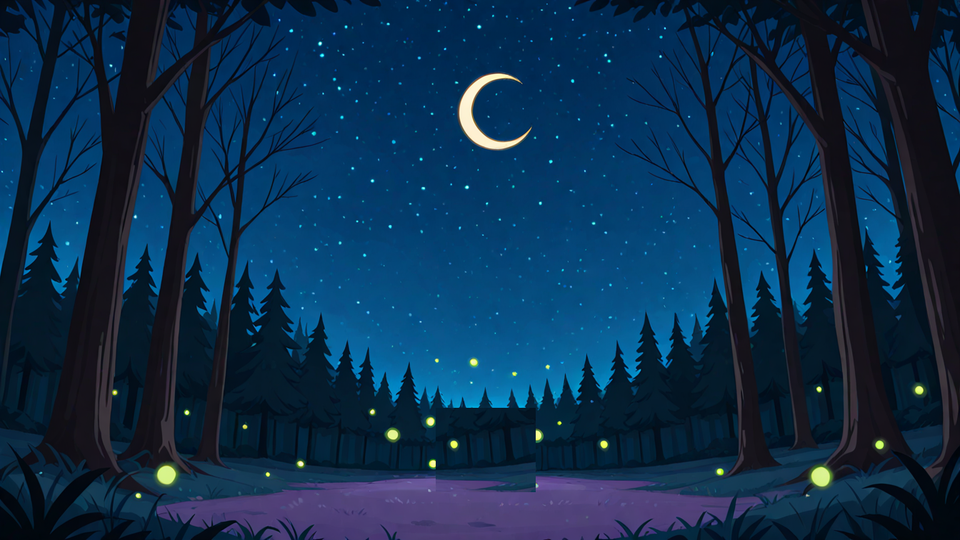
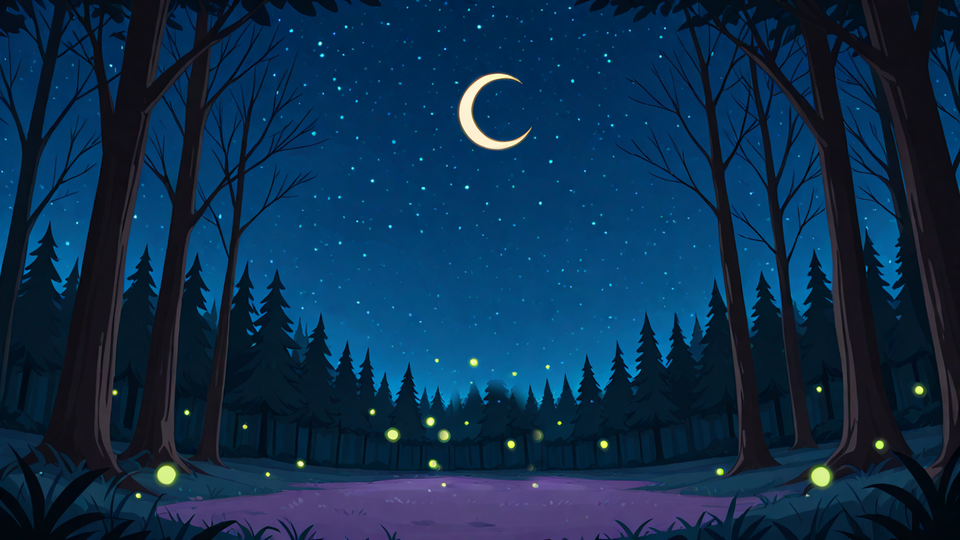
美術:背景補丁改成羽化、素材清單改成實際尺寸
- 失眠森林背景:模型自己加的小動物改用羽化橢圓補丁蓋掉,看不出方塊痕跡
- 練習靶放進 40×40 畫布;去背裁切改看 alpha 通道
- level1-assets.md 改成實際寬×高,補對齊說明;授權表格修正斷行;風格指南更新 LoRA 強度

Changed region(s): [[0.4375, 0.6815, 0.5625, 0.9185]]

diff --git a/docs/art/tools/process_level1.py b/docs/art/tools/process_level1.py
@@ -1,9 +1,10 @@
 """把 ComfyUI 產生的第一關候選圖，去背、翻轉、縮成遊戲大小，輸出到 public/assets/。
 
-用法：python -I docs/art/tools/process_level1.py <ComfyUI output/gk1 資料夾> <專案根目錄>
+用法：C:/ai-studio/ComfyUI_windows_portable/python_embeded/python.exe -I docs/art/tools/process_level1.py <ComfyUI output/gk1 資料夾> <專案根目錄>
+注意：來源圖（ComfyUI 輸出）只在美術的電腦上，沒有放進 repo。
 """
 import os, sys
-from PIL import Image, ImageDraw
+from PIL import Image, ImageDraw, ImageFilter
 
 SRC, ROOT = sys.argv[1], sys.argv[2]
 
@@ -40,23 +41,31 @@ def cutout(path):
         for x in range(w):
             if px[x, y][:3] == key:
                 px[x, y] = (255, 255, 255, 0)
-    return rgba.crop(rgba.getbbox())
+    return rgba.crop(rgba.getchannel("A").getbbox())
 
 def fit(im, box):
     s = min(box[0] / im.width, box[1] / im.height)
     size = (max(1, round(im.width * s)), max(1, round(im.height * s)))
-    return im.convert("RGBa").resize(size, Image.LANCZOS).convert("RGBA")  # 先乘 alpha 再縮，邊緣才不會有白邊
+    return im.resize(size, Image.LANCZOS)
 
 for cat, name, src, flip, box in PICKS:
     im = cutout(os.path.join(SRC, cat, src))
     if flip:
         im = im.transpose(Image.FLIP_LEFT_RIGHT)
     out = os.path.join(ROOT, "public", "assets", cat); os.makedirs(out, exist_ok=True)
-    fit(im, box).save(os.path.join(out, name + ".png"), optimize=True)
+    im = fit(im, box)
+    if name == "practice-target":  # 交接規格是 40×40，置中放進 40×40 透明畫布
+        canvas = Image.new("RGBA", (40, 40), (255, 255, 255, 0))
+        canvas.alpha_composite(im, ((40 - im.width) // 2, 40 - im.height)); im = canvas
+    im.save(os.path.join(out, name + ".png"), optimize=True)
 
-# 背景：用右邊一塊草地蓋掉模型自己加的小動物，再縮成 960×540
+# 背景：模型自己在地面中間加了一隻小動物，用右邊同高度的地面、邊緣羽化的橢圓補丁蓋掉，再縮成 960×540
 bg = Image.open(os.path.join(SRC, "backgrounds", "insomnia-forest_00007_.png")).convert("RGB")
-bg.paste(bg.crop((820, 580, 960, 700)), (610, 580))
+box = (605, 540, 765, 725)  # 小動物的位置（原圖 1344×768 座標）
+w, h = box[2] - box[0], box[3] - box[1]
+patch = bg.crop((box[0] + 130, box[1], box[2] + 130, box[3]))
+mask = Image.new("L", (w, h), 0); ImageDraw.Draw(mask).ellipse((8, 8, w - 8, h - 8), fill=255)
+bg.paste(patch, box[:2], mask.filter(ImageFilter.GaussianBlur(8)))
 out = os.path.join(ROOT, "public", "assets", "backgrounds"); os.makedirs(out, exist_ok=True)
 bg.resize((960, 540), Image.LANCZOS).save(os.path.join(out, "insomnia-forest.png"), optimize=True)
 print("ok")

diff --git a/docs/art/level1-assets.md b/docs/art/level1-assets.md
@@ -3,33 +3,33 @@
 2026-10-21 第一版。全部是透明背景 PNG（背景除外），已經縮成遊戲內大小（1 倍，畫面 960×540）。
 魔物朝左、武器朝右、道具正面。地面 y=480，素材底部對齊地面即可。
 
-| 檔案 | 內容 | 大小（約） | 備註 |
+| 檔案 | 內容 | 實際大小（寬×高 px） | 備註 |
 |---|---|---|---|
-| `public/assets/enemies/clockbug.png` | 吵鬧鬧鐘蟲（小怪） | 高 56 | 抱著一個鬧鐘 |
-| `public/assets/enemies/coffee-bean-sprite.png` | 咖啡豆精靈（小怪） | 高 52 | 腳下有一點咖啡渣 |
-| `public/assets/enemies/night-bat.png` | 熬夜蝙蝠（小怪） | 高 56 | 正面，拿咖啡杯；飛行時底部要高於 y=452，讓玩家蹲下能閃過 |
-| `public/assets/enemies/insomnia-hedgehog.png` | 失眠刺蝟（中階） | 高 72 | 刺在背上（企劃是正面刺盾，之後可再調） |
-| `public/assets/enemies/night-owl-boss.png` | 熬夜貓頭鷹（關主） | 高 200 | 戴睡帽、拿咖啡杯 |
-| `public/assets/weapons/yawn-bubble.png` | 哈欠泡泡 | 寬 44 | |
-| `public/assets/weapons/sheep-machine-gun.png` | 數羊機槍 | 寬 48 | |
-| `public/assets/weapons/pillow-cannon.png` | 枕頭砲 | 寬 48 | |
-| `public/assets/weapons/milk-spray.png` | 晚安牛奶噴霧 | 寬 44 | |
-| `public/assets/weapons/lullaby-harp.png` | 搖籃曲豎琴 | 40×40 | |
-| `public/assets/weapons/blanket-boomerang.png` | 棉被迴力鏢 | 40×40 | |
-| `public/assets/weapons/moon-lamp.png` | 月亮催眠燈 | 寬 48 | |
-| `public/assets/items/hot-cocoa.png` | 熱可可 | 32 | |
-| `public/assets/items/shooting-star.png` | 流星 | 32 | |
-| `public/assets/items/small-pillow.png` | 小枕頭 | 32 | |
-| `public/assets/items/milk-bottle.png` | 牛奶瓶 | 32 | |
-| `public/assets/items/treasure-chest.png` | 寶箱 | 40 | 打開的樣子 |
-| `public/assets/items/practice-target.png` | 練習靶 | 40×40 | |
-| `public/assets/characters/default-guard.png` | 預設角色：睡衣小綿羊守衛 | 高 56 | 朝右；人形守衛有「看起來像小孩」的疑慮，改用小綿羊 |
-| `public/assets/characters/pajama-outline.png` | 睡衣小人輪廓（給玩家畫） | 高 512 | 沒有臉、白色填滿，玩家在上面畫；腮紅要程式或玩家另外加 |
+| `public/assets/enemies/clockbug.png` | 吵鬧鬧鐘蟲（小怪） | 48×56 | 抱著一個鬧鐘 |
+| `public/assets/enemies/coffee-bean-sprite.png` | 咖啡豆精靈（小怪） | 39×52 | 腳下有一點咖啡渣 |
+| `public/assets/enemies/night-bat.png` | 熬夜蝙蝠（小怪） | 56×56 | 正面，拿咖啡杯；飛行時底部要高於 y=452，讓玩家蹲下能閃過 |
+| `public/assets/enemies/insomnia-hedgehog.png` | 失眠刺蝟（中階） | 80×72 | 刺在背上（企劃是正面刺盾，之後可再調） |
+| `public/assets/enemies/night-owl-boss.png` | 熬夜貓頭鷹（關主） | 181×200 | 戴睡帽、拿咖啡杯 |
+| `public/assets/weapons/yawn-bubble.png` | 哈欠泡泡 | 43×36 | |
+| `public/assets/weapons/sheep-machine-gun.png` | 數羊機槍 | 48×21 | |
+| `public/assets/weapons/pillow-cannon.png` | 枕頭砲 | 43×36 | |
+| `public/assets/weapons/milk-spray.png` | 晚安牛奶噴霧 | 41×36 | |
+| `public/assets/weapons/lullaby-harp.png` | 搖籃曲豎琴 | 40×38 | |
+| `public/assets/weapons/blanket-boomerang.png` | 棉被迴力鏢 | 40×37 | |
+| `public/assets/weapons/moon-lamp.png` | 月亮催眠燈 | 27×40 | |
+| `public/assets/items/hot-cocoa.png` | 熱可可 | 23×32 | |
+| `public/assets/items/shooting-star.png` | 流星 | 32×30 | |
+| `public/assets/items/small-pillow.png` | 小枕頭 | 32×24 | |
+| `public/assets/items/milk-bottle.png` | 牛奶瓶 | 15×32 | |
+| `public/assets/items/treasure-chest.png` | 寶箱 | 40×38 | 打開的樣子 |
+| `public/assets/items/practice-target.png` | 練習靶 | 40×40 | 靶本身 37×40，置中放在 40×40 透明畫布 |
+| `public/assets/characters/default-guard.png` | 預設角色：睡衣小綿羊守衛 | 48×55 | 朝右；比玩家判定 28×48 寬，水平置中、底部貼地；人形守衛有「看起來像小孩」的疑慮，改用小綿羊 |
+| `public/assets/characters/pajama-outline.png` | 睡衣小人輪廓（給玩家畫） | 289×512 | 沒有臉、身體白色填滿（睡帽內有一小塊是透明的），玩家在上面畫；腮紅要程式或玩家另外加；負責人 2026-10-21 確認用人形 |
 | `public/assets/backgrounds/insomnia-forest.png` | 失眠森林背景 | 960×540 | 單張，還沒分視差圖層 |
 
 ## 還沒做 / 已知問題
 
-- 素材是 1 倍大小，高解析度螢幕上可能有點糊；需要 2 倍版本的話跟美術說，重跑 `docs/art/tools/process_level1.py` 改尺寸即可。
+- 素材是 1 倍大小，高解析度螢幕上可能有點糊；需要 2 倍版本的話跟美術說：來源大圖只在美術的電腦上，由美術改 `docs/art/tools/process_level1.py` 的尺寸重跑。
 - 背景是單張，不是遠景／中景／前景三層。
 - 熬夜貓頭鷹的三個階段、魔物被哄睡的樣子（打哈欠、變小羊、Zzz）還沒畫。
 - 寶箱只有打開的樣子，沒有關著的。

diff --git a/docs/assets-licenses.md b/docs/assets-licenses.md
@@ -19,7 +19,6 @@
 | `docs/art/style-sample-v2/clockbug.png`、`pillow-cannon.png` | 本機 ComfyUI 生成，四角填色去背（枕頭砲左右翻轉） | Nova Cartoon XL v6.0＋Chibi Animal V2 | 見上表 | 2026-10-21 |
 | `docs/art/style-sample-v2/insomnia-forest.png` | 本機 ComfyUI 生成，縮成 960×540 | Nova Cartoon XL v6.0＋Chibi Animal V2 | 見上表 | 2026-10-21 |
 | `docs/art/style-sample-v2/style-sample-gamescale.png`、`style-sample-closeup.png` | 用上面三張合成 | 同上（來源素材） | 見上表 | 2026-10-21 |
-
 | `public/assets/enemies/*.png`（clockbug、coffee-bean-sprite、night-bat、insomnia-hedgehog、night-owl-boss） | 本機 ComfyUI 生成，`docs/art/tools/process_level1.py` 去背縮圖 | Nova Cartoon XL v6.0＋Chibi Animal V2（強度 0.9） | 見上表 | 2026-10-21 |
 | `public/assets/weapons/*.png`（7 把） | 同上，部分左右翻轉成朝右 | Nova Cartoon XL v6.0（不加 LoRA） | 見上表 | 2026-10-21 |
 | `public/assets/items/*.png`（熱可可、流星、小枕頭、牛奶瓶、寶箱、練習靶） | 同上 | Nova Cartoon XL v6.0＋Chibi Animal V2（強度 0.4） | 見上表 | 2026-10-21 |

diff --git a/docs/art/style-guide.md b/docs/art/style-guide.md
@@ -52,7 +52,7 @@
 
 - 底模：Nova Cartoon XL v6.0（`novaCartoonXL_v60.safetensors`，Illustrious 系列，Civitai model 1570391）
 - 畫風 LoRA：Chibi Animal Characters「Illustrious: V2」版（`Chibi_Animal_V2.safetensors`，Civitai model 1481162，version 2842389）
-- 強度：魔物 0.9、武器道具 0.4、背景 0.5
+- 強度：魔物 0.9、道具 0.4、預設角色 0.5；**武器、背景、睡衣小人輪廓不加 LoRA**（加了會冒出小動物，武器會變成「小熊拿武器」）
 - 設定：28 步、CFG 5.5、euler_ancestral、normal
 
 **共用風格詞（每張都加在最後）：**
